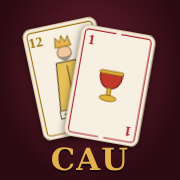
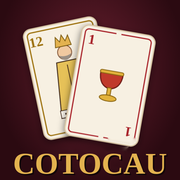
cau-2026-11-03-10: icono con COTOCAU en vez de CAU
Claude-Session: https://claude.ai/code/session_01ENRVEhJs4qRdw5ai55jjw6

diff --git a/index.html b/index.html
@@ -1791,7 +1791,7 @@ let S = null, busy = false, fx = null, nextConfirm = false, narr = '';
 const SPEEDS = [['lento', 1.6], ['normal', 1], ['rápido', 0.55]];
 let speedIx = SETTINGS.speed >= 0 && SETTINGS.speed < 3 ? SETTINGS.speed : 1;
 /* ---------- compartir partidas (Supabase: la clave pública solo permite insertar) ---------- */
-const APP_VER = 'cau-2026-11-03-9';
+const APP_VER = 'cau-2026-11-03-10';
 const SUPA = { url: 'https://fzctetcrmrtxwzisxsig.supabase.co/rest/v1/partidas', key: 'sb_publishable_dg8jQx8W7KcVCcEg2KPVnA_ExvQR1gb' };
 function deviceId() {
   try { let id = localStorage.getItem('cau.uid'); if (!id) { id = Math.random().toString(36).slice(2, 10) + Date.now().toString(36).slice(-4); localStorage.setItem('cau.uid', id); } return id; } catch (e) { return 'anon'; }

diff --git a/sw.js b/sw.js
@@ -1,5 +1,5 @@
 // Funcionamiento sin conexión. Cambia VERSION en cada actualización de la app.
-const VERSION='cau-2026-11-03-9';
+const VERSION='cau-2026-11-03-10';
 const SHELL=['./','./index.html','./classic.webp','./manifest.webmanifest','./icons/icon-192.png','./icons/icon-512.png','./icons/maskable-512.png','./icons/apple-touch-icon.png'];
 self.addEventListener('install',e=>{e.waitUntil(caches.open(VERSION).then(c=>c.addAll(SHELL)).then(()=>self.skipWaiting()));});
 self.addEventListener('activate',e=>{e.waitUntil(caches.keys().then(ks=>Promise.all(ks.filter(k=>k!==VERSION).map(k=>caches.delete(k)))).then(()=>self.clients.claim()));});
